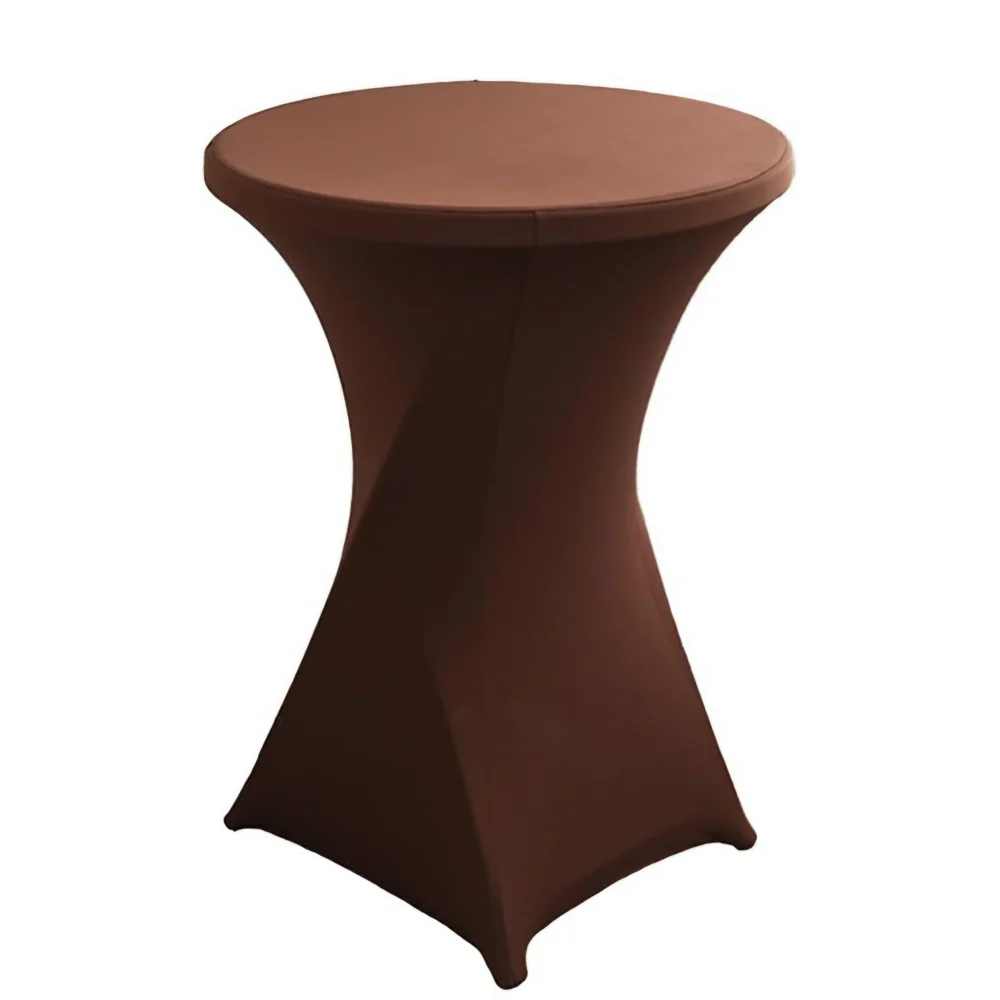
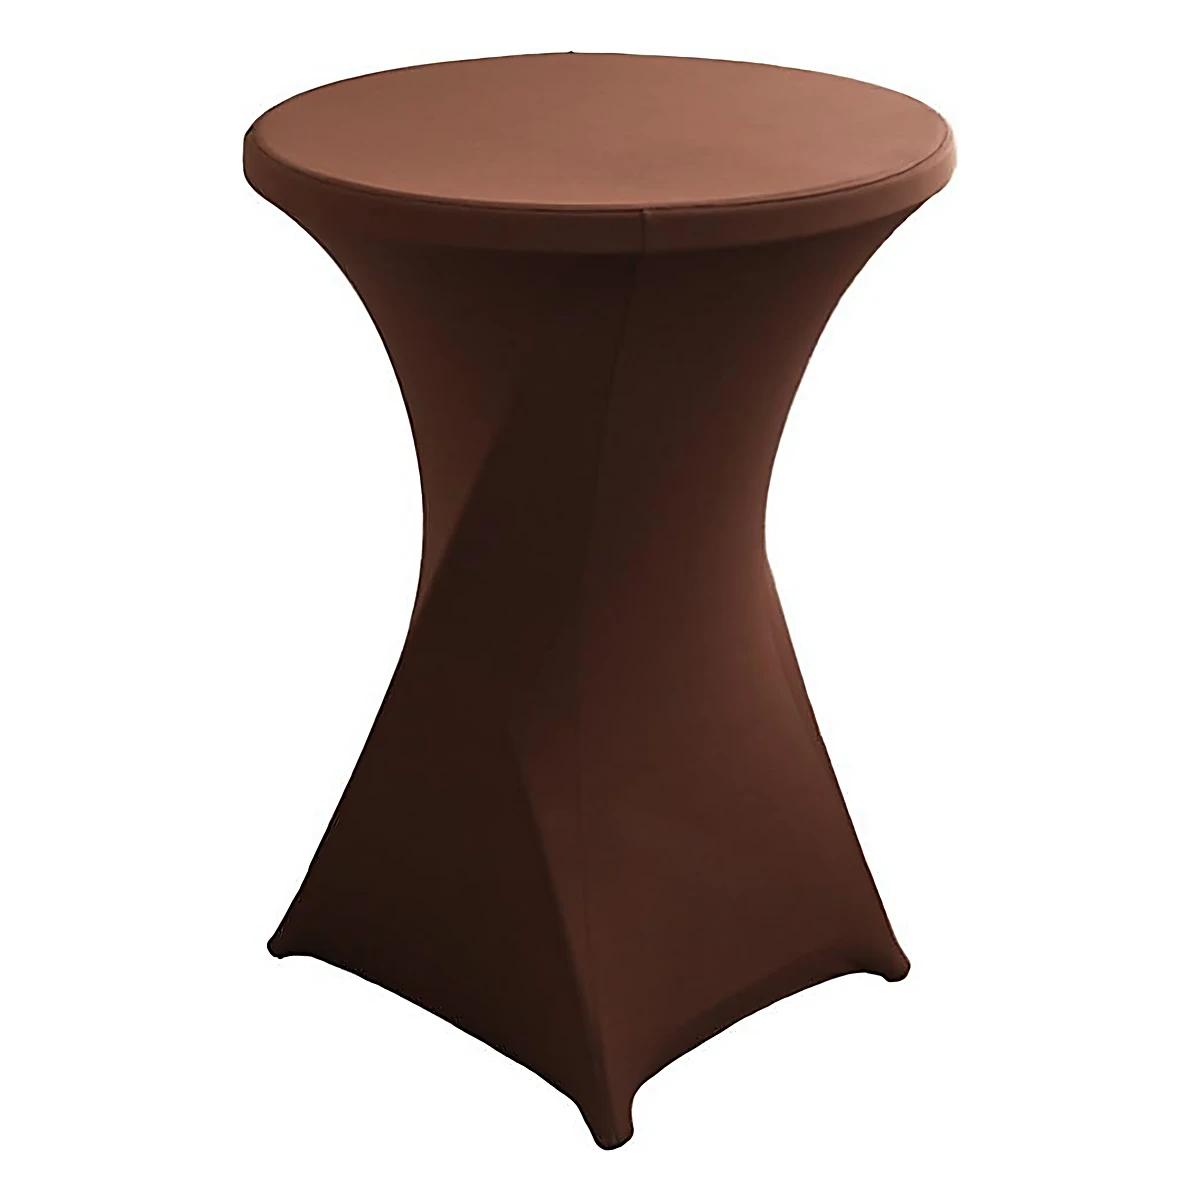
Mange-debout : photos des 4 housses colorées, images plus nettes
Claude-Session: https://claude.ai/code/session_01WQLdmRPaukAjSKqYYAyhYN

diff --git a/site/article-mange-debout.html b/site/article-mange-debout.html
@@ -494,7 +494,7 @@ transform:none!important;stroke-dashoffset:0!important}}
 <p>Chaque mange-debout est habillé d'une <strong>housse dans la couleur de votre choix</strong>. Blanche et noire sont comprises dans le prix ; <strong>brune, or, verte et terracotta</strong> coûtent 5 € de plus par housse.</p>
 <div class="art-coul-liste"><span class="art-coul"><i style="background:#ffffff"></i>Blanche</span><span class="art-coul"><i style="background:#1b1f27"></i>Noire</span><span class="art-coul"><i style="background:#7a4b2a"></i>Brune<small>+5 €</small></span><span class="art-coul"><i style="background:#c9a227"></i>Or<small>+5 €</small></span><span class="art-coul"><i style="background:#3f7d4e"></i>Verte<small>+5 €</small></span><span class="art-coul"><i style="background:#c4663f"></i>Terracotta<small>+5 €</small></span></div>
 <p>Et vous pouvez <strong>mélanger les couleurs</strong> : par exemple 5 housses blanches, 3 vertes et 2 noires pour une même soirée, ou une couleur par îlot pour rythmer la salle. Une couleur chaude (terracotta, or) se marie très bien avec les bougies et la lumière douce du soir ; le noir et le blanc donnent un style plus chic.</p>
-<div class="art-coul-photos"><a href="produit-mange-debout.html"><img src="mange-debout-brune.webp" alt="Mange-debout avec housse brune" loading="lazy" decoding="async" width="1000" height="1000"><span>Brune</span></a><a href="produit-mange-debout.html"><img src="mange-debout-or.webp" alt="Mange-debout avec housse or" loading="lazy" decoding="async" width="1000" height="1000"><span>Or</span></a></div>
+<div class="art-coul-photos"><a href="produit-mange-debout.html"><img src="mange-debout-brune.webp" alt="Mange-debout avec housse brune" loading="lazy" decoding="async" width="1000" height="1000"><span>Brune</span></a><a href="produit-mange-debout.html"><img src="mange-debout-or.webp" alt="Mange-debout avec housse or" loading="lazy" decoding="async" width="1000" height="1000"><span>Or</span></a><a href="produit-mange-debout.html"><img src="mange-debout-verte.webp" alt="Mange-debout avec housse verte" loading="lazy" decoding="async" width="1200" height="1200"><span>Verte</span></a><a href="produit-mange-debout.html"><img src="mange-debout-terracotta.webp" alt="Mange-debout avec housse terracotta" loading="lazy" decoding="async" width="1200" height="1200"><span>Terracotta</span></a></div>
 <div class="art-voir"><a href="produit-mange-debout.html">Choisir mes couleurs →</a></div></section>
 <section class="art-card" id="s3"><h2><span class="art-num">4</span>Combien en prévoir ?</h2>
 <p>Comptez environ <strong>un mange-debout pour 6 à 8 invités</strong>. Pour 60 invités au cocktail, 8 à 10 tables laissent à chacun un endroit où se poser. Dispersez-les pour créer des îlots de conversation plutôt que de les aligner.</p></section>

diff --git a/site/produit-mange-debout.html b/site/produit-mange-debout.html
@@ -1340,7 +1340,7 @@ function toggleFaq(btn){
 })();
 
 /* — galerie produit — */
-const PG_IMGS=[{"s": "mange-debout.webp", "a": "Mange-debout avec housses blanche et noire sur une terrasse", "t": "mange-debout-t.webp"}, {"s": "mange-debout-table.webp", "a": "Mange-debout, table haute pliante", "t": "mange-debout-table-t.webp"}, {"s": "mange-debout-brune.webp", "a": "Mange-debout avec housse brune", "t": "mange-debout-brune-t.webp"}, {"s": "mange-debout-or.webp", "a": "Mange-debout avec housse or", "t": "mange-debout-or-t.webp"}];
+const PG_IMGS=[{"s": "mange-debout.webp", "a": "Mange-debout avec housses blanche et noire sur une terrasse", "t": "mange-debout-t.webp"}, {"s": "mange-debout-table.webp", "a": "Mange-debout, table haute pliante", "t": "mange-debout-table-t.webp"}, {"s": "mange-debout-brune.webp", "a": "Mange-debout avec housse brune", "t": "mange-debout-brune-t.webp"}, {"s": "mange-debout-or.webp", "a": "Mange-debout avec housse or", "t": "mange-debout-or-t.webp"}, {"s": "mange-debout-verte.webp", "a": "Mange-debout avec housse verte, cocktail en extérieur", "t": "mange-debout-verte-t.webp"}, {"s": "mange-debout-terracotta.webp", "a": "Mange-debout avec housse terracotta", "t": "mange-debout-terracotta-t.webp"}];
 let _pgI=0;
 function pgThumbs(){
   const wrap=document.getElementById('prodThumbs');

diff --git a/site/article-cartes.css b/site/article-cartes.css
@@ -84,8 +84,8 @@ html body .art-card figure.art-fig{max-width:460px;margin:18px auto 6px 0}
 html body .art-card figure.art-fig img{width:100%!important;max-height:420px}
 html body .art-card figure.art-fig figcaption{text-align:left}
 @media(max-width:900px){html body .art-card figure.art-fig{max-width:100%}}
-html body .art-coul-photos{display:flex;gap:14px;margin:0 0 18px}
-html body .art-coul-photos a{position:relative;display:block;width:200px;border-radius:20px;overflow:hidden;background:#fff;box-shadow:0 14px 30px -20px rgba(15,34,55,.5),0 0 0 1px #e6ebf1}
+html body .art-coul-photos{display:flex;flex-wrap:wrap;gap:14px;margin:0 0 18px}
+html body .art-coul-photos a{position:relative;display:block;width:calc(25% - 11px);border-radius:20px;overflow:hidden;background:#fff;box-shadow:0 14px 30px -20px rgba(15,34,55,.5),0 0 0 1px #e6ebf1}
 html body .art-coul-photos img{display:block;width:100%;height:auto;aspect-ratio:1;object-fit:cover}
 html body .art-coul-photos span{position:absolute;left:10px;bottom:10px;background:rgba(255,255,255,.92);color:#0f2237;font:700 12px Inter,system-ui,sans-serif;padding:4px 10px;border-radius:999px}
 @media(max-width:560px){html body .art-coul-photos a{width:calc(50% - 7px)}}
